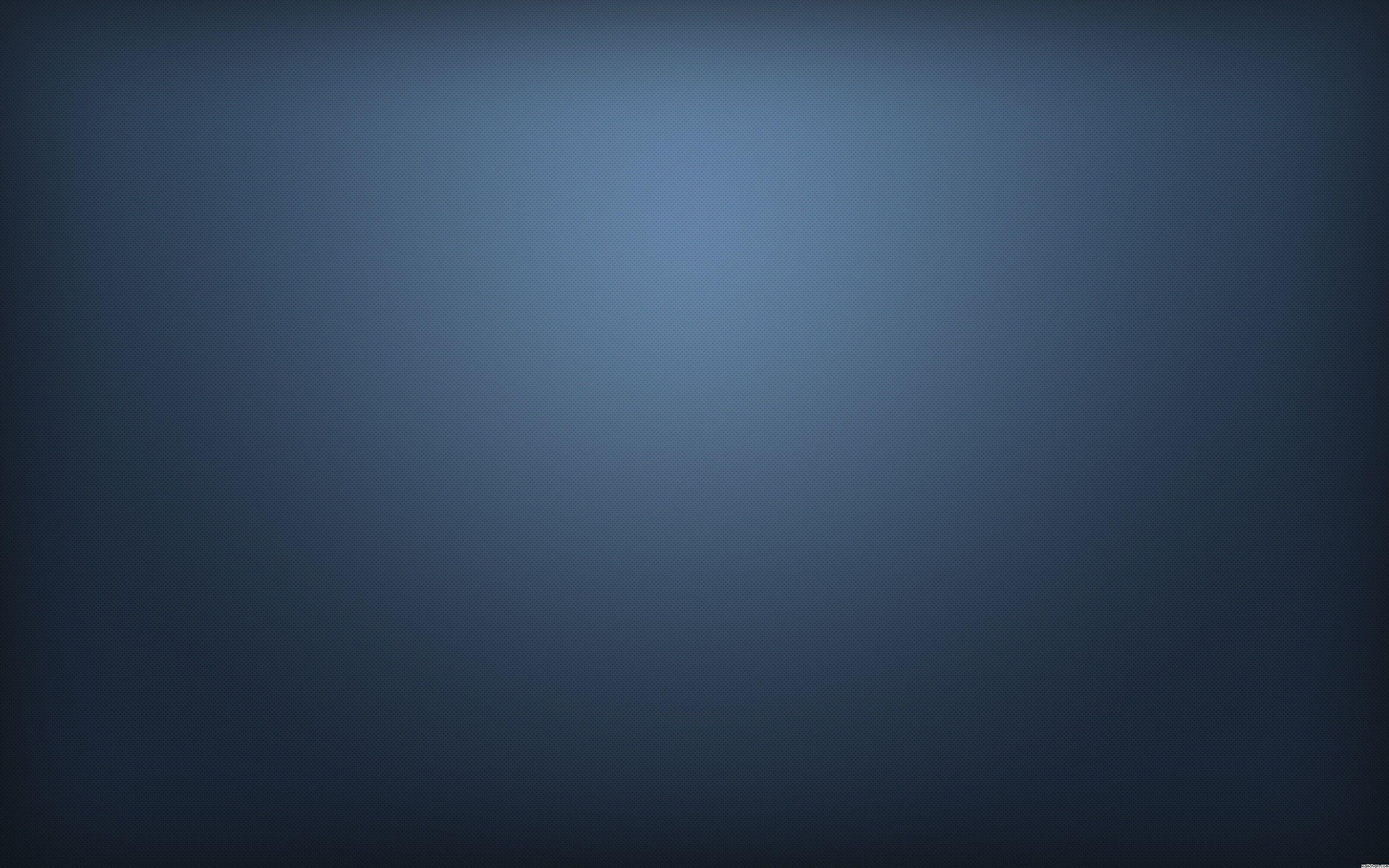
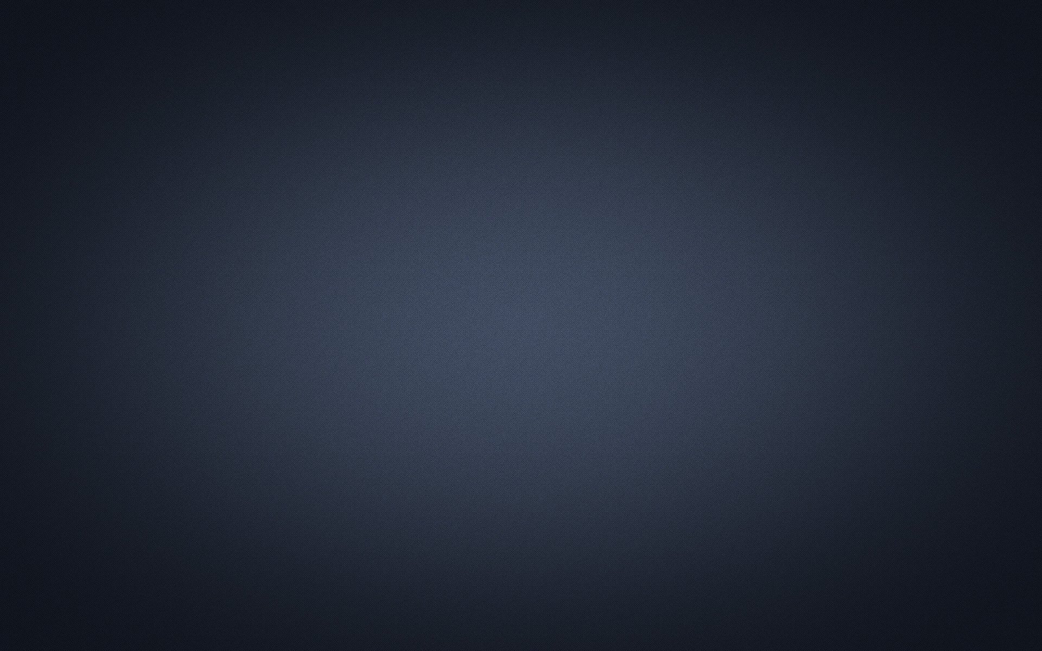
'search'

diff --git a/src/common/movieItem/MovieItem.tsx b/src/common/movieItem/MovieItem.tsx
@@ -1,26 +1,77 @@
 import React from "react";
 import {NavLink} from "react-router-dom";
 import styles from './movieItem.module.scss'
-
+import placeholder from './../image/placeholder.png'
+import { makeStyles, Theme, createStyles } from '@material-ui/core/styles';
+import Modal from '@material-ui/core/Modal';
+import Backdrop from '@material-ui/core/Backdrop';
+import Fade from '@material-ui/core/Fade';
 type MovieItemType = {
     id: number
     poster_path: string
     vote_average: number
     original_title: string
 }
-
+const useStyles = makeStyles((theme: Theme) =>
+    createStyles({
+        modal: {
+            display: 'flex',
+            alignItems: 'center',
+            justifyContent: 'center',
+        },
+        paper: {
+            backgroundColor: theme.palette.background.paper,
+            border: '2px solid #000',
+            boxShadow: theme.shadows[5],
+            padding: theme.spacing(2, 4, 3),
+        },
+    }),
+);
 export const MovieItem = (props: MovieItemType) => {
+    const classes = useStyles();
+    const [open, setOpen] = React.useState(false);
+
+    const handleOpen = () => {
+        setOpen(true);
+    };
+
+    const handleClose = () => {
+        setOpen(false);
+    };
     const movieImgPath = 'https://image.tmdb.org/t/p/w500/'
     return (
         <div className={styles.movieItem} key={props.id}>
             <NavLink to={'/details/'+ props.id}>
                 <div className={styles.poster}>
-                    <img src={movieImgPath + props.poster_path} alt="poster"/>
+                    {props.poster_path ? <img src={movieImgPath + props.poster_path} alt="poster"/> :
+                        <img src={placeholder} alt="poster"/>}
                     <span className={styles.voteAverage}>{props.vote_average}</span>
                 </div>
             </NavLink>
             <div className={styles.filmTitle}>
                 <h4>{props.original_title}</h4>
+                <button type="button" onClick={handleOpen}>
+                    Trailer
+                </button>
+                <Modal
+                    aria-labelledby="transition-modal-title"
+                    aria-describedby="transition-modal-description"
+                    className={classes.modal}
+                    open={open}
+                    onClose={handleClose}
+                    closeAfterTransition
+                    BackdropComponent={Backdrop}
+                    BackdropProps={{
+                        timeout: 500,
+                    }}
+                >
+                    <Fade in={open}>
+                        <div className={classes.paper}>
+                            <h2 id="transition-modal-title">Transition modal</h2>
+                            <p id="transition-modal-description">react-transition-group animates me.</p>
+                        </div>
+                    </Fade>
+                </Modal>
             </div>
         </div>
     )

diff --git a/src/components/newRelease/NewRelease.tsx b/src/components/newRelease/NewRelease.tsx
@@ -2,12 +2,13 @@ import React, {useEffect, useState} from "react";
 import styles from './releases.module.scss'
 import {useDispatch, useSelector} from "react-redux";
 import {FetchMovieAC, setMovieAC, movieItemType} from "../../redux/movie-reducer";
-import {getMovie} from "../../redux/selectors";
+import {getIsFetchingValue, getMovie} from "../../redux/selectors";
 import {MovieItem} from "../../common/movieItem/MovieItem";
+import {Preloader} from "../../common/preloader/Preloader";
 
 export const Releases = () => {
     const movie = useSelector(getMovie)
-    console.log(movie)
+    const isFetching = useSelector(getIsFetchingValue)
     const arrOfId = [
         {id: 28, name: "Action"},
         {id: 12, name: "Adventure"},
@@ -30,25 +31,18 @@ export const Releases = () => {
         {id: 37, name: "Western"}
     ]
     const dispatch = useDispatch()
+
     useEffect(() => {
         dispatch(FetchMovieAC())
     }, [dispatch])
 
-    const compareIds = (genreId: number) => {
-        const newArr = [] as Array<movieItemType>
-        movie.map(el => {
-            if (el.genre_ids.includes(genreId)){
-                newArr.push(el)
-            }
-        })
-        console.log(newArr)
-        return newArr
-    }
+    const [id, setId] = useState<number | null>(null)
+    const filteredArr = movie.filter(el => id !== null? el.genre_ids.includes(id) : el)
     const genreHandleChange = (event: React.ChangeEvent<{ value: any }>) => {
         arrOfId.map((el) => {
             if (el.name === event.target.value){
                 let id = el.id
-                compareIds(id)
+                setId(id)
             }
         })
     }
@@ -63,7 +57,7 @@ export const Releases = () => {
 
     const filterRatingHandler = () => dispatch(setMovieAC(filterByRating(movie)))
     const filterTitleHandler = () => dispatch(setMovieAC(filterByName(movie)))
-    //const [value, setValue] = useState(80)
+    if(isFetching){return <Preloader />}
     return (
         <div className={styles.releases}>
             <h2 className={styles.mainTitle}>New Releases</h2>
@@ -74,7 +68,7 @@ export const Releases = () => {
                 {arrOfId.map((el) => <option key={el.id}>{el.name}</option>)}
             </select>
             <div className={styles.releasesInner}>
-                {movie.map((film) => <MovieItem id={film.id} original_title={film.original_title} poster_path={film.poster_path} vote_average={film.vote_average}/>)}
+                {filteredArr.map((film) => <MovieItem id={film.id} original_title={film.original_title} poster_path={film.poster_path} vote_average={film.vote_average}/>)}
             </div>
         </div>
     )

diff --git a/src/components/details/details.tsx b/src/components/details/details.tsx
@@ -3,7 +3,10 @@ import styles from './details.module.scss'
 import { useParams } from "react-router-dom";
 import {useDispatch, useSelector} from "react-redux";
 import {FetchMovieDetailsAC, FetchTrailer} from "../../redux/movie-reducer";
-import {getMovieDetails, getTrailer} from "../../redux/selectors";
+import {getIsFetchingValue, getMovieDetails, getTrailer} from "../../redux/selectors";
+import {Preloader} from "../../common/preloader/Preloader";
+import Rating from '@material-ui/lab/Rating';
+import Box from '@material-ui/core/Box';
 
 export const Details = () => {
     const {id} = useParams<{ id: any }>()
@@ -14,8 +17,12 @@ export const Details = () => {
     },[dispatch, id])
     const movieDetails = useSelector(getMovieDetails)
     const movieTrailer = useSelector(getTrailer)
+    const isFetching = useSelector(getIsFetchingValue)
+
     const trailer = movieTrailer[0]
     const movieImgPath = 'https://image.tmdb.org/t/p/w500/'
+
+    if(isFetching){return <Preloader />}
     return (
         <div className={styles.movieItem}>
             <div className={styles.movieItemInner}>
@@ -40,12 +47,15 @@ export const Details = () => {
                         </div>
                         <div className={styles.listDetailsItem}>
                             <p>County:</p>
-                            {/*<span>{movieDetails.production_countries[0].name}</span>*/}
+                            {/*{movieDetails && <span>{movieDetails?.production_countries[0]?.name}</span>}*/}
                         </div>
                     </div>
                 </div>
                 <div className={styles.movieInfo}>
                     <h2>{movieDetails.title}</h2>
+                    <Box component="fieldset" mb={3} borderColor="transparent">
+                        <Rating name="half-rating" defaultValue={movieDetails.vote_average} precision={0.1} readOnly max={10}/>
+                    </Box>
                     <div className={styles.voteStatistics}>
                         <div className={styles.voteAverage}>
                             <span className={styles.as}>{movieDetails.vote_average}</span>
@@ -66,7 +76,7 @@ export const Details = () => {
                     </div>
                     <div className={styles.trailerItem}>
                         <h2>Trailer</h2>
-                        {/*<iframe src={`https://www.youtube.com/embed/${trailer.key}`} width={640} height={360} frameBorder="0">rere</iframe>*/}
+                        {/*<iframe src={`https://www.youtube.com/embed/${trailer.key}`} width={640} height={360} frameBorder="0"></iframe>*/}
                     </div>
 
                 </div>

diff --git a/src/redux/movie-reducer.tsx b/src/redux/movie-reducer.tsx
@@ -97,11 +97,21 @@ export const SET_SEARCH_MOVIE = 'SET_SEARCH_MOVIE'
 export const FETCH_TRAILER = 'FETCH_TRAILER'
 export const SET_TRAILER = 'SET_TRAILER'
 
+export const CHANGE_IS_FETCHING = 'CHANGE_IS_FETCHING'
+
 let initialState = {
     upcomingMovie: [] as Array<movieItemType>,
     movieDetail: {} as detailsMovie,
     search: [] as Array<searchItem>,
-    movieTrailer: [] as Array<movieTrailerType>
+    movieTrailer: [] as Array<movieTrailerType>,
+    isFetching : false
+}
+
+export const ChangeIsFetchingValueAC = (value: boolean) => {
+    return {
+        type: CHANGE_IS_FETCHING,
+        value
+    }
 }
 
 export const FetchMovieAC = () => {
@@ -179,6 +189,11 @@ const movieReducer = (state: InitialType = initialState, action: any): InitialTy
             return {
                 ...state,
                 movieTrailer: action.details
+            }
+        case CHANGE_IS_FETCHING:
+            return {
+                ...state,
+                isFetching: action.value
             }
         default:
             return state

diff --git a/src/common/movieItem/movieItem.module.scss b/src/common/movieItem/movieItem.module.scss
@@ -1,11 +1,31 @@
 .movieItem{
   position: relative;
-  &:after{
-    content: '';
-    background-color: black;
+  margin-right: 45px;
+  width: 250px;
+  box-shadow: 0 10px 20px rgba(0,0,0,0.19), 0 6px 6px rgba(0,0,0,0.23);
+  transition: .6s;
+  cursor: pointer;
+
+  button{
+    position: absolute;
+    top: 50%;
+    left: 50%;
+    opacity: 0;
+    z-index: 3;
+    transition: .5s;
   }
+  &:hover{
+    transition: .3s;
+    box-shadow: 0 14px 28px rgba(0,0,0,0.25), 0 10px 10px rgba(0,0,0,0.22);
+    button{
+      opacity: 1;
+      z-index: 9;
+    }
+  }
+
   .voteAverage {
     position: absolute;
+    z-index: 3;
     top: 0;
     right: 0;
     color: #000;
@@ -17,10 +37,18 @@
   }
   .poster{
     display: block;
-    width: 250px;
+    max-height: 375px;
     position: relative;
+    z-index: 3;
     img {
       width: 100%;
+    }
+    .btn{
+      position: relative;
+      z-index: 3;
+      opacity: 0;
+      transform: translateY(30px);
+      transition: 0.5s all
     }
   }
   .filmTitle{

diff --git a/src/redux/sagas/movieSaga.ts b/src/redux/sagas/movieSaga.ts
@@ -1,6 +1,6 @@
 import {put, call, takeEvery} from 'redux-saga/effects'
 import { movieApi } from '../../api/api'
-import {FETCH_DETAILS, FETCH_UPCOMING_MOVIE, setMovieAC, setMovieDetailsAC, FETCH_SEARCH_MOVIE, setSearchMovieAC, FETCH_TRAILER, setTrailerAC} from "../movie-reducer";
+import {FETCH_DETAILS, FETCH_UPCOMING_MOVIE, setMovieAC, setMovieDetailsAC, FETCH_SEARCH_MOVIE, setSearchMovieAC, FETCH_TRAILER, setTrailerAC, ChangeIsFetchingValueAC} from "../movie-reducer";
 
 function* fetchUpcomingMovie() {
     // @ts-ignore
@@ -9,10 +9,11 @@ function* fetchUpcomingMovie() {
 }
 
 function* fetchMovieDetails(action: any){
-    debugger
+    yield put(ChangeIsFetchingValueAC(true))
     // @ts-ignore
     let res = yield call(() => movieApi.getMovieDetails(action.movieId))
     yield put(setMovieDetailsAC(res.data))
+    yield put(ChangeIsFetchingValueAC(false))
 }
 
 function* fetchSearchMovie(action: any){

diff --git a/src/components/result/Result.tsx b/src/components/result/Result.tsx
@@ -2,12 +2,13 @@ import React from "react";
 import {useSelector} from "react-redux";
 import {getSearchMovie} from "../../redux/selectors";
 import {MovieItem} from "../../common/movieItem/MovieItem";
-
+import styles from './result.module.scss'
 export const Result = () => {
     const result = useSelector(getSearchMovie)
     return(
-        <div>
-            {result.map((movie) => <MovieItem key={movie.id} vote_average={movie.vote_average} poster_path={movie.poster_path} original_title={movie.original_title} id={movie.id}/>)}
+        <div className={styles.resultWrapper}>
+            {result.map((movie) =>
+                <MovieItem key={movie.id} vote_average={movie.vote_average} poster_path={movie.poster_path} original_title={movie.original_title} id={movie.id}/>)}
         </div>
     )
 }

diff --git a/src/App.module.scss b/src/App.module.scss
@@ -4,12 +4,19 @@
 @import './src/scss/vars';
 
 .app {
-  //background-image: url("./common/image/bg.jpg");
+  background-image: url("./common/image/bg.jpg");
   display: grid;
   grid-template-columns: 2fr 10fr;
   grid-template-areas:
           "header search"
           "menu c";
+  &:before{
+    content: '';
+    position: absolute;
+    width: 100%;
+    background-color: #000;
+    opacity: .7;
+  }
 }
 
 .appWrapperContent{

diff --git a/src/redux/selectors.ts b/src/redux/selectors.ts
@@ -13,3 +13,6 @@ export const getSearchMovie = (state: AppRootStateType) => {
 export const getTrailer = (state: AppRootStateType) => {
     return  state.movie.movieTrailer
 }
+export const getIsFetchingValue = (state: AppRootStateType) => {
+    return  state.movie.isFetching
+}

diff --git a/src/components/result/result.module.scss b/src/components/result/result.module.scss
@@ -1,0 +1,9 @@
+.resultWrapper {
+  display: flex;
+  flex-wrap: wrap;
+  justify-content: center;
+
+}
+.movieItem_movieItem{
+  margin: 0 15px 40px 15px;
+}

diff --git a/src/components/details/details.module.scss b/src/components/details/details.module.scss
@@ -43,3 +43,7 @@
     }
   }
 }
+fieldset{
+  margin: 0;
+  padding: 0;
+}
